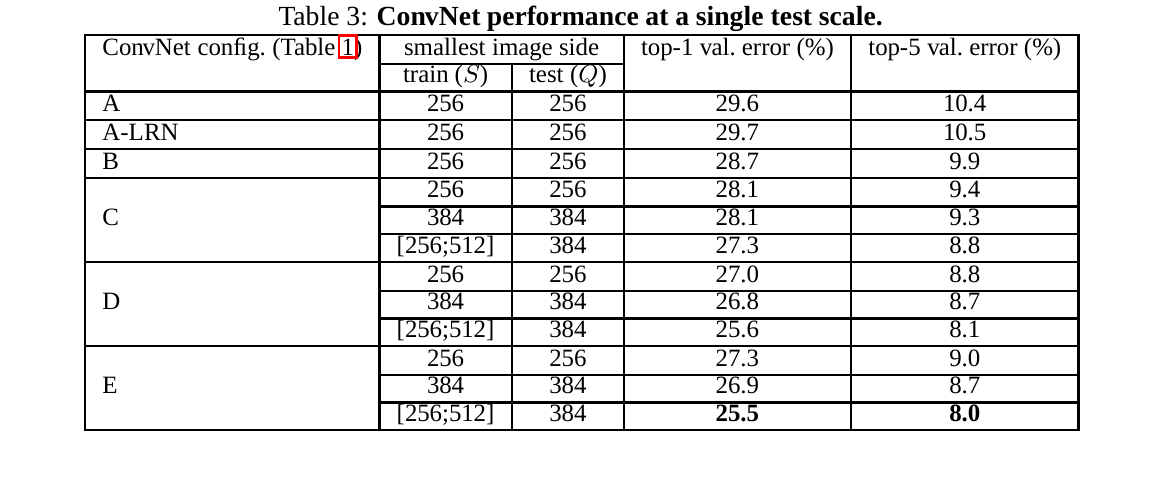
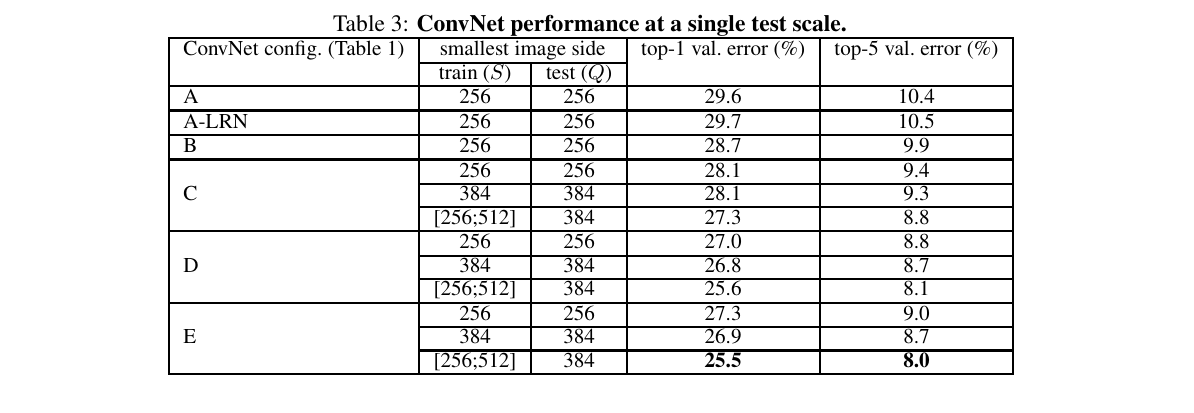
paperfigs: replace drawn selection/hover borders with section-6 veil+red-badge treatment; re-extract VGG Table 3 without PDF link annotation

diff --git a/cnn.html b/cnn.html
@@ -465,7 +465,13 @@
     #effToy { position: relative; }
     .eff-fig-wrap { position: relative; display: inline-block; max-width: 100%; }
     .eff-fig { max-width: 100%; height: auto; display: block; }
-    .eff-hotspot { position: absolute; border: 3px solid #e74c3c; border-radius: 6px; pointer-events: none; display: none; box-shadow: 0 0 0 2px rgba(231,76,60,0.3); }
+    /* Paper-figure section 6 treatment: selection is a white-veil spotlight
+       (four panes with a hole at the panel's rect) plus the panel badge
+       turning red. Nothing is drawn over the figure: no borders, no outlines. */
+    .eff-veil { position: absolute; inset: 0; pointer-events: none; }
+    .eff-veil-pane { position: absolute; background: rgba(255,255,255,0.55); }
+    .eff-mbadge { display: inline-block; min-width: 20px; height: 20px; line-height: 20px; padding: 0 5px; border-radius: 999px; background: #bdc3c7; color: #fff; font-size: 12px; font-weight: 700; text-align: center; margin-right: 2px; }
+    .eff-mbadge.on { background: #e74c3c; }
     .eff-rebuilt { font-size: 0.9em; color: #555; margin: 0.5em 0; }
     .eff-cite { font-size: 0.85em; color: #777; margin: 0.3em 0 1em; }
     .eff-methods { display: inline-flex; gap: 12px; flex-wrap: wrap; margin: 0 12px; }
@@ -2588,7 +2594,12 @@ class SEBlock(nn.Module):
         <figure class="figure">
             <div class="eff-fig-wrap">
                 <img src="figures/papers/efficientnet-fig2.png" alt="Figure 2 from the EfficientNet paper: five network diagrams showing (a) baseline, (b) wider, (c) deeper, (d) higher-resolution, and (e) compound-scaled networks." class="eff-fig">
-                <div class="eff-hotspot" id="effHotspot"></div>
+                <div class="eff-veil" id="effVeil" aria-hidden="true">
+                    <div class="eff-veil-pane" id="effVeilT"></div>
+                    <div class="eff-veil-pane" id="effVeilB"></div>
+                    <div class="eff-veil-pane" id="effVeilL"></div>
+                    <div class="eff-veil-pane" id="effVeilR"></div>
+                </div>
             </div>
             <figcaption>Figure 2. Model Scaling. (a) is a baseline network example; (b)-(d) are conventional scaling that only increases one dimension of network width, depth, or resolution. (e) is our proposed compound scaling method that uniformly scales all three dimensions with a fixed ratio.</figcaption>
         </figure>
@@ -2599,10 +2610,10 @@ class SEBlock(nn.Module):
             <label for="effPhi">&phi; (compound coefficient): <span id="effPhiVal">0</span> <span id="effModelName">B0</span></label>
             <input type="range" id="effPhi" min="0" max="7" step="1" value="0" aria-label="Phi, compound scaling coefficient">
             <span class="eff-methods" role="group" aria-label="Scaling method">
-                <label><input type="radio" name="effMethod" value="compound" checked> Compound</label>
-                <label><input type="radio" name="effMethod" value="width"> Width-only (what-if)</label>
-                <label><input type="radio" name="effMethod" value="depth"> Depth-only (what-if)</label>
-                <label><input type="radio" name="effMethod" value="res"> Resolution-only (what-if)</label>
+                <label><input type="radio" name="effMethod" value="compound" checked> <span class="eff-mbadge on" data-m="compound">(e)</span> Compound</label>
+                <label><input type="radio" name="effMethod" value="width"> <span class="eff-mbadge" data-m="width">(b)</span> Width-only (what-if)</label>
+                <label><input type="radio" name="effMethod" value="depth"> <span class="eff-mbadge" data-m="depth">(c)</span> Depth-only (what-if)</label>
+                <label><input type="radio" name="effMethod" value="res"> <span class="eff-mbadge" data-m="res">(d)</span> Resolution-only (what-if)</label>
             </span>
             <button type="button" class="toy-btn" id="effPlay">Play</button>
             <button type="button" class="toy-btn" id="effReset">Reset</button>
@@ -2635,7 +2646,7 @@ class SEBlock(nn.Module):
                 <li><strong>The point:</strong> one knob, &phi;, grows depth, width, and resolution together in a fixed ratio, so FLOPS roughly doubles each step (1.92x exact) while accuracy climbs; scaling one dimension alone falls behind.</li>
                 <li><strong>What you'll see:</strong> &phi; steps from 0 to 7 on its own, the model name ticks B0 to B7, the input tile grows, the blocks multiply and thicken, and the FLOPS readout climbs about 2x per step in compound mode.</li>
                 <li><strong>&phi; (compound coefficient):</strong> 0 to 7, whole steps, picking the model B0 to B7. Try dragging it to 7 and watch the depth, width, and resolution readouts land on the B7 row of the paper's table below.</li>
-                <li><strong>Scaling method:</strong> Compound, Width-only, Depth-only, or Resolution-only. Try setting &phi; to 7 and flipping between Compound and Width-only, and watch the FLOPS factor collapse; the button also highlights the matching panel on the paper's real Figure 2 above.</li>
+                <li><strong>Scaling method:</strong> Compound, Width-only, Depth-only, or Resolution-only. Try setting &phi; to 7 and flipping between Compound and Width-only, and watch the FLOPS factor collapse; a white veil spotlights the matching panel on the paper's real Figure 2 above while its panel badge turns red below.</li>
                 <li><strong>Play:</strong> steps &phi; from 0 to 7 on its own, 0.8 seconds per stop; if it starts at 7, it resets to B0 first.</li>
                 <li><strong>Reset:</strong> try it after a run and watch &phi; snap back to 0 (B0) with Compound scaling selected.</li>
             </ul>
@@ -2651,12 +2662,11 @@ class SEBlock(nn.Module):
         var statsEl = document.getElementById('effStats');
         var cv = document.getElementById('effCanvas');
         var ctx = cv.getContext('2d');
-        var hotspot = document.getElementById('effHotspot');
         var methodRadios = document.querySelectorAll('input[name="effMethod"]');
         var playing = false, playTimer = null;
 
-        /* Panel highlight positions as percentages of figure size (b)-(e) left to right.
-           Compound box is narrowed to the network blocks so its border never
+        /* Panel spotlight holes as percentages of figure size (b)-(e) left to right.
+           The compound hole is narrowed to the network blocks so it never
            crosses the "deeper" / "higher resolution" side labels. */
         var PANEL_POS = {
             compound: { left: '81%', top: '11%', width: '9%', height: '79%' },
@@ -2681,14 +2691,27 @@ class SEBlock(nn.Module):
             return { d: d, w: w, r: r, flops: flops };
         }
 
-        function updateHotspot() {
+        /* Section 6 selection treatment: white-veil spotlight with a hole at the
+           selected panel's rect, plus the matching panel badge turning red.
+           Nothing is drawn over the figure. */
+        function updateVeil() {
             var m = getMethod();
             var pos = PANEL_POS[m];
-            hotspot.style.left = pos.left;
-            hotspot.style.top = pos.top;
-            hotspot.style.width = pos.width;
-            hotspot.style.height = pos.height;
-            hotspot.style.display = 'block';
+            var l = parseFloat(pos.left), t = parseFloat(pos.top),
+                w = parseFloat(pos.width), h = parseFloat(pos.height);
+            function pane(id, l, t, w, hh) {
+                var el = document.getElementById(id);
+                el.style.left = l + '%'; el.style.top = t + '%';
+                el.style.width = w + '%'; el.style.height = hh + '%';
+            }
+            pane('effVeilT', 0, 0, 100, t);
+            pane('effVeilB', 0, t + h, 100, 100 - t - h);
+            pane('effVeilL', 0, t, l, h);
+            pane('effVeilR', l + w, t, 100 - l - w, h);
+            var badges = document.querySelectorAll('#effToy .eff-mbadge');
+            for (var i = 0; i < badges.length; i++) {
+                badges[i].classList.toggle('on', badges[i].getAttribute('data-m') === m);
+            }
         }
 
         function draw() {
@@ -2772,15 +2795,15 @@ class SEBlock(nn.Module):
             stopPlay(600);
             phiSlider.value = '0';
             methodRadios[0].checked = true;
-            updateHotspot(); draw();
+            updateVeil(); draw();
         });
 
-        phiSlider.addEventListener('input', function () { stopPlay(600); updateHotspot(); draw(); });
+        phiSlider.addEventListener('input', function () { stopPlay(600); updateVeil(); draw(); });
         for (var i = 0; i < methodRadios.length; i++) {
-            methodRadios[i].addEventListener('change', function () { stopPlay(600); updateHotspot(); draw(); });
+            methodRadios[i].addEventListener('change', function () { stopPlay(600); updateVeil(); draw(); });
         }
         window.addEventListener('resize', draw);
-        updateHotspot();
+        updateVeil();
         draw();
     })();
     </script>

diff --git a/pca.html b/pca.html
@@ -534,12 +534,20 @@
     .fig-wrap { position: relative; max-width: 480px; margin: 0 auto; }
     .fig-wrap img { display: block; width: 100%; height: auto; }
     .hotgrid { position: absolute; inset: 0; display: grid; grid-template-columns: repeat(3, 1fr); grid-template-rows: repeat(3, 1fr); }
-    .hotcell { background: transparent; border: 2px solid transparent; cursor: pointer; padding: 0; position: relative; }
-    .hotcell:hover { border-color: #3498db; background: rgba(52,152,219,0.10); }
-    .hotcell.sel { border-color: #c0392b; background: rgba(192,57,43,0.08); }
+    /* Paper-figure section 6: nothing is drawn over the figure. Selection is a
+       white-veil spotlight (four panes with a hole at the selected cell) plus
+       the cell's number badge turning red. Hover and keyboard focus change
+       only the badge. The dim below is the top-k slider's own fade. */
+    .hotcell { background: transparent; border: none; cursor: pointer; padding: 0; position: relative; }
+    .hotcell:hover .eig-badge, .hotcell:focus-visible .eig-badge { background: #3498db; }
+    .hotcell:focus-visible { outline: none; }
+    .hotcell.sel .eig-badge { background: #e74c3c; }
     .hotcell.empty { cursor: default; }
-    .hotcell.empty:hover { border-color: transparent; background: transparent; }
     .hotcell.dimmed::after { content: ''; position: absolute; inset: 0; background: rgba(255,255,255,0.68); pointer-events: none; }
+    #eigFigDemo .eig-veil { position: absolute; inset: 0; pointer-events: none; display: none; }
+    #eigFigDemo .eig-veil.on { display: block; }
+    #eigFigDemo .eig-veil-pane { position: absolute; background: rgba(255,255,255,0.55); }
+    .eig-badge { position: absolute; top: -11px; right: -11px; width: 22px; height: 22px; border-radius: 50%; background: #2c3e50; color: #fff; font-size: 12px; font-weight: 700; display: flex; align-items: center; justify-content: center; line-height: 1; }
     #eigFigDemo .eig-bars { max-width: 560px; margin: 0.8rem auto 0; }
     #eigFigDemo .eig-bars-label { font-size: 0.85em; color: #555; margin-bottom: 0.4rem; }
     #eigFigDemo .eig-bar-row { display: flex; align-items: flex-end; gap: 6px; height: 120px; }
@@ -1017,6 +1025,12 @@ const PCA_PAYLOAD = {"meta":{"grid":32,"n_faces":400,"n_features":1024,"face_sam
      <figure class="figure" style="margin:0">
        <div class="fig-wrap">
          <img src="figures/papers/turk-pentland-1991-fig2.png" alt="Figure 2 from Turk and Pentland 1991: seven eigenfaces in a three by three grid, two cells black.">
+         <div class="eig-veil" id="eigVeil" aria-hidden="true">
+           <div class="eig-veil-pane" id="eigVeilT"></div>
+           <div class="eig-veil-pane" id="eigVeilB"></div>
+           <div class="eig-veil-pane" id="eigVeilL"></div>
+           <div class="eig-veil-pane" id="eigVeilR"></div>
+         </div>
          <div class="hotgrid" id="eigHotgrid" role="group" aria-label="Eigenface cells"></div>
        </div>
        <figcaption>Figure 2. Seven of the eigenfaces calculated from the input images of Figure 1.</figcaption>
@@ -1093,6 +1107,11 @@ const PCA_PAYLOAD = {"meta":{"grid":32,"n_faces":400,"n_features":1024,"face_sam
          b.className = 'hotcell' + (empty ? ' empty' : '');
          if (!empty) {
            b.setAttribute('aria-label', 'Eigenface ' + faceOf(idx));
+           var eBadge = document.createElement('span');
+           eBadge.className = 'eig-badge';
+           eBadge.setAttribute('aria-hidden', 'true');
+           eBadge.textContent = faceOf(idx);
+           b.appendChild(eBadge);
            b.addEventListener('click', function () { stopPlay(); selectFace(faceOf(idx)); });
          } else {
            b.setAttribute('aria-label', 'Empty cell: the paper shows seven eigenfaces');
@@ -1102,12 +1121,30 @@ const PCA_PAYLOAD = {"meta":{"grid":32,"n_faces":400,"n_features":1024,"face_sam
          cells.push(b);
        })(c);
      }
+     /* Section 6 spotlight: four veil panes with a hole at the selected cell.
+        The cells form an exact 3x3 grid over the figure, so the hole is
+        computed from the cell index. Nothing is drawn over the figure. */
+     function setEigVeil(cellIdx) {
+       var col = cellIdx % 3, row = Math.floor(cellIdx / 3);
+       var l = col * 100 / 3, t = row * 100 / 3, w = 100 / 3, h = 100 / 3;
+       function pane(id, l, t, w, hh) {
+         var el = document.getElementById(id);
+         el.style.left = l + '%'; el.style.top = t + '%';
+         el.style.width = w + '%'; el.style.height = hh + '%';
+       }
+       pane('eigVeilT', 0, 0, 100, t);
+       pane('eigVeilB', 0, t + h, 100, 100 - t - h);
+       pane('eigVeilL', 0, t, l, h);
+       pane('eigVeilR', l + w, t, 100 - l - w, h);
+       document.getElementById('eigVeil').classList.add('on');
+     }
      function selectFace(face) {
        for (var q = 0; q < cells.length; q++) cells[q].classList.remove('sel');
        for (var r = 0; r < barBtns.length; r++) barBtns[r].classList.remove('sel');
        var cellIdx = face <= 6 ? face - 1 : 7;
        cells[cellIdx].classList.add('sel');
        barBtns[face - 1].classList.add('sel');
+       setEigVeil(cellIdx);
        info.textContent = 'The notebook\u2019s eigenface ' + face + ' explains ' +
          SHARES[face - 1].toFixed(2) + '% of the variance; its top ' + face +
          ' explain ' + CUM[face - 1].toFixed(2) + '%.';

diff --git a/transformers.html b/transformers.html
@@ -593,7 +593,12 @@
       position: absolute; border: 2px dashed transparent; border-radius: 10px;
       background: transparent; cursor: pointer; padding: 0;
     }
-    #transPaperDemo .pf-hotspot:hover, #transPaperDemo .pf-hotspot:focus-visible { border-color: #3498db; outline: none; }
+    /* Paper-figure section 6: hover and keyboard focus never draw over the
+       figure. The number badge is the only thing that changes: blue on hover,
+       darker blue on keyboard focus, red when selected. */
+    #transPaperDemo .pf-hotspot:hover .pf-badge { background: #3498db; }
+    #transPaperDemo .pf-hotspot:focus-visible { outline: none; }
+    #transPaperDemo .pf-hotspot:focus-visible .pf-badge { background: #2471a3; }
     #transPaperDemo .pf-hotspot.lit { border-color: transparent; background: transparent; }
     #transPaperDemo .pf-hotspot.lit .pf-badge { background: #e74c3c; }
     #transPaperDemo .pf-veil { position: absolute; inset: 0; pointer-events: none; display: none; }

diff --git a/ssl.html b/ssl.html
@@ -456,7 +456,12 @@
       position: absolute; border: 2px dashed transparent; border-radius: 10px;
       background: transparent; cursor: pointer; padding: 0;
     }
-    #simclrPaperDemo .pf-hotspot:hover, #simclrPaperDemo .pf-hotspot:focus-visible { border-color: #3498db; outline: none; }
+    /* Paper-figure section 6: hover and keyboard focus never draw over the
+       figure. The number badge is the only thing that changes: blue on hover,
+       darker blue on keyboard focus, red when selected. */
+    #simclrPaperDemo .pf-hotspot:hover .pf-badge { background: #3498db; }
+    #simclrPaperDemo .pf-hotspot:focus-visible { outline: none; }
+    #simclrPaperDemo .pf-hotspot:focus-visible .pf-badge { background: #2471a3; }
     #simclrPaperDemo .pf-hotspot.lit { border-color: transparent; background: transparent; }
     #simclrPaperDemo .pf-hotspot.lit .pf-badge { background: #e74c3c; }
     #simclrPaperDemo .pf-hotspot.b-br .pf-badge { top: auto; bottom: -14px; right: -14px; }

diff --git a/conformer.html b/conformer.html
@@ -488,7 +488,12 @@
       position: absolute; border: 2px dashed transparent; border-radius: 10px;
       background: transparent; cursor: pointer; padding: 0;
     }
-    #cf1Demo .cf1-hotspot:hover, #cf1Demo .cf1-hotspot:focus-visible { border-color: #3498db; outline: none; }
+    /* Paper-figure section 6: hover and keyboard focus never draw over the
+       figure. The number badge is the only thing that changes: blue on hover,
+       darker blue on keyboard focus, red when selected. */
+    #cf1Demo .cf1-hotspot:hover .cf1-badge { background: #3498db; }
+    #cf1Demo .cf1-hotspot:focus-visible { outline: none; }
+    #cf1Demo .cf1-hotspot:focus-visible .cf1-badge { background: #2471a3; }
     #cf1Demo .cf1-hotspot.lit .cf1-badge { background: #e74c3c; }
     #cf1Demo .cf1-veil { position: absolute; inset: 0; pointer-events: none; display: none; }
     #cf1Demo .cf1-veil.on { display: block; }
